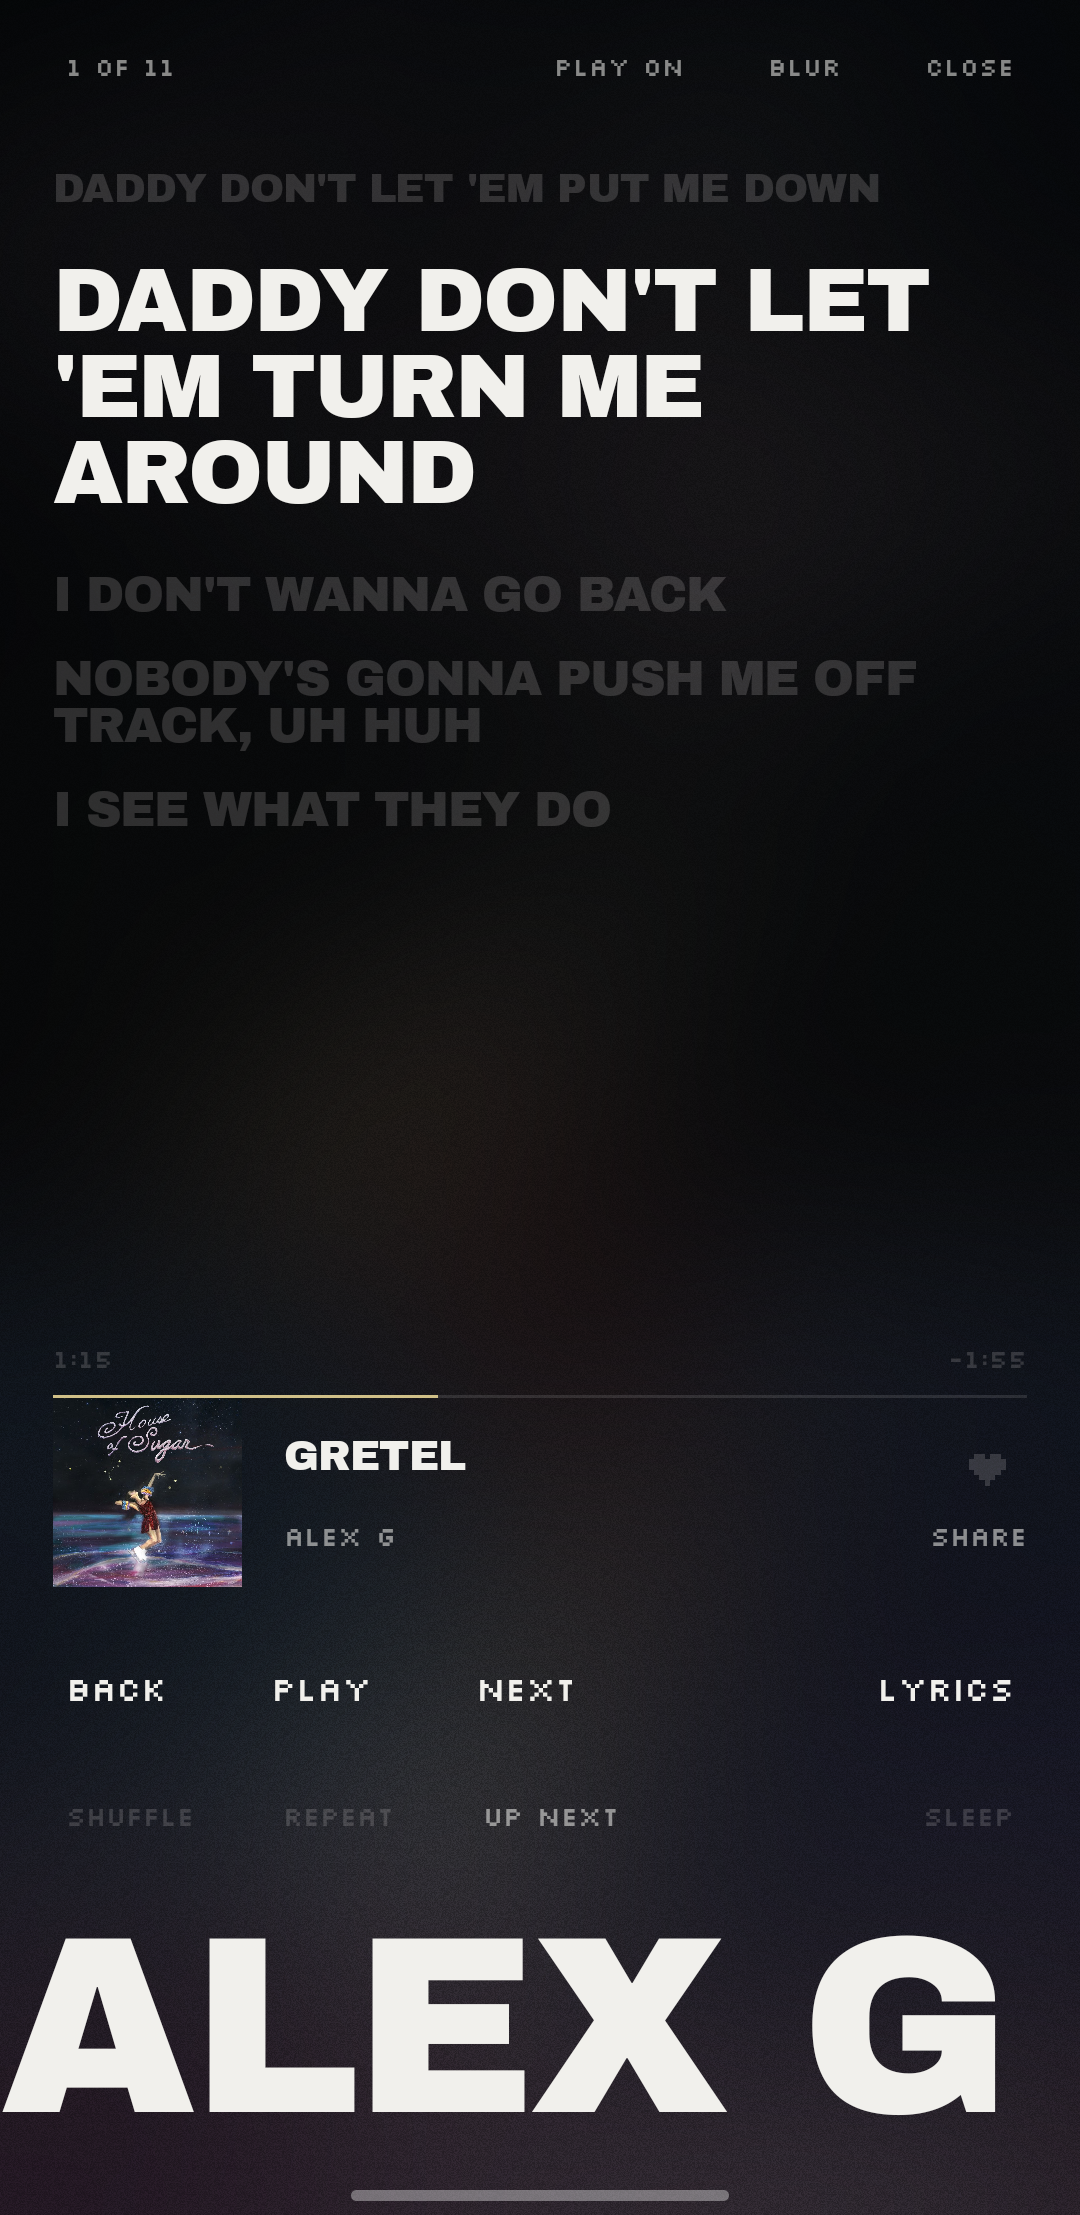
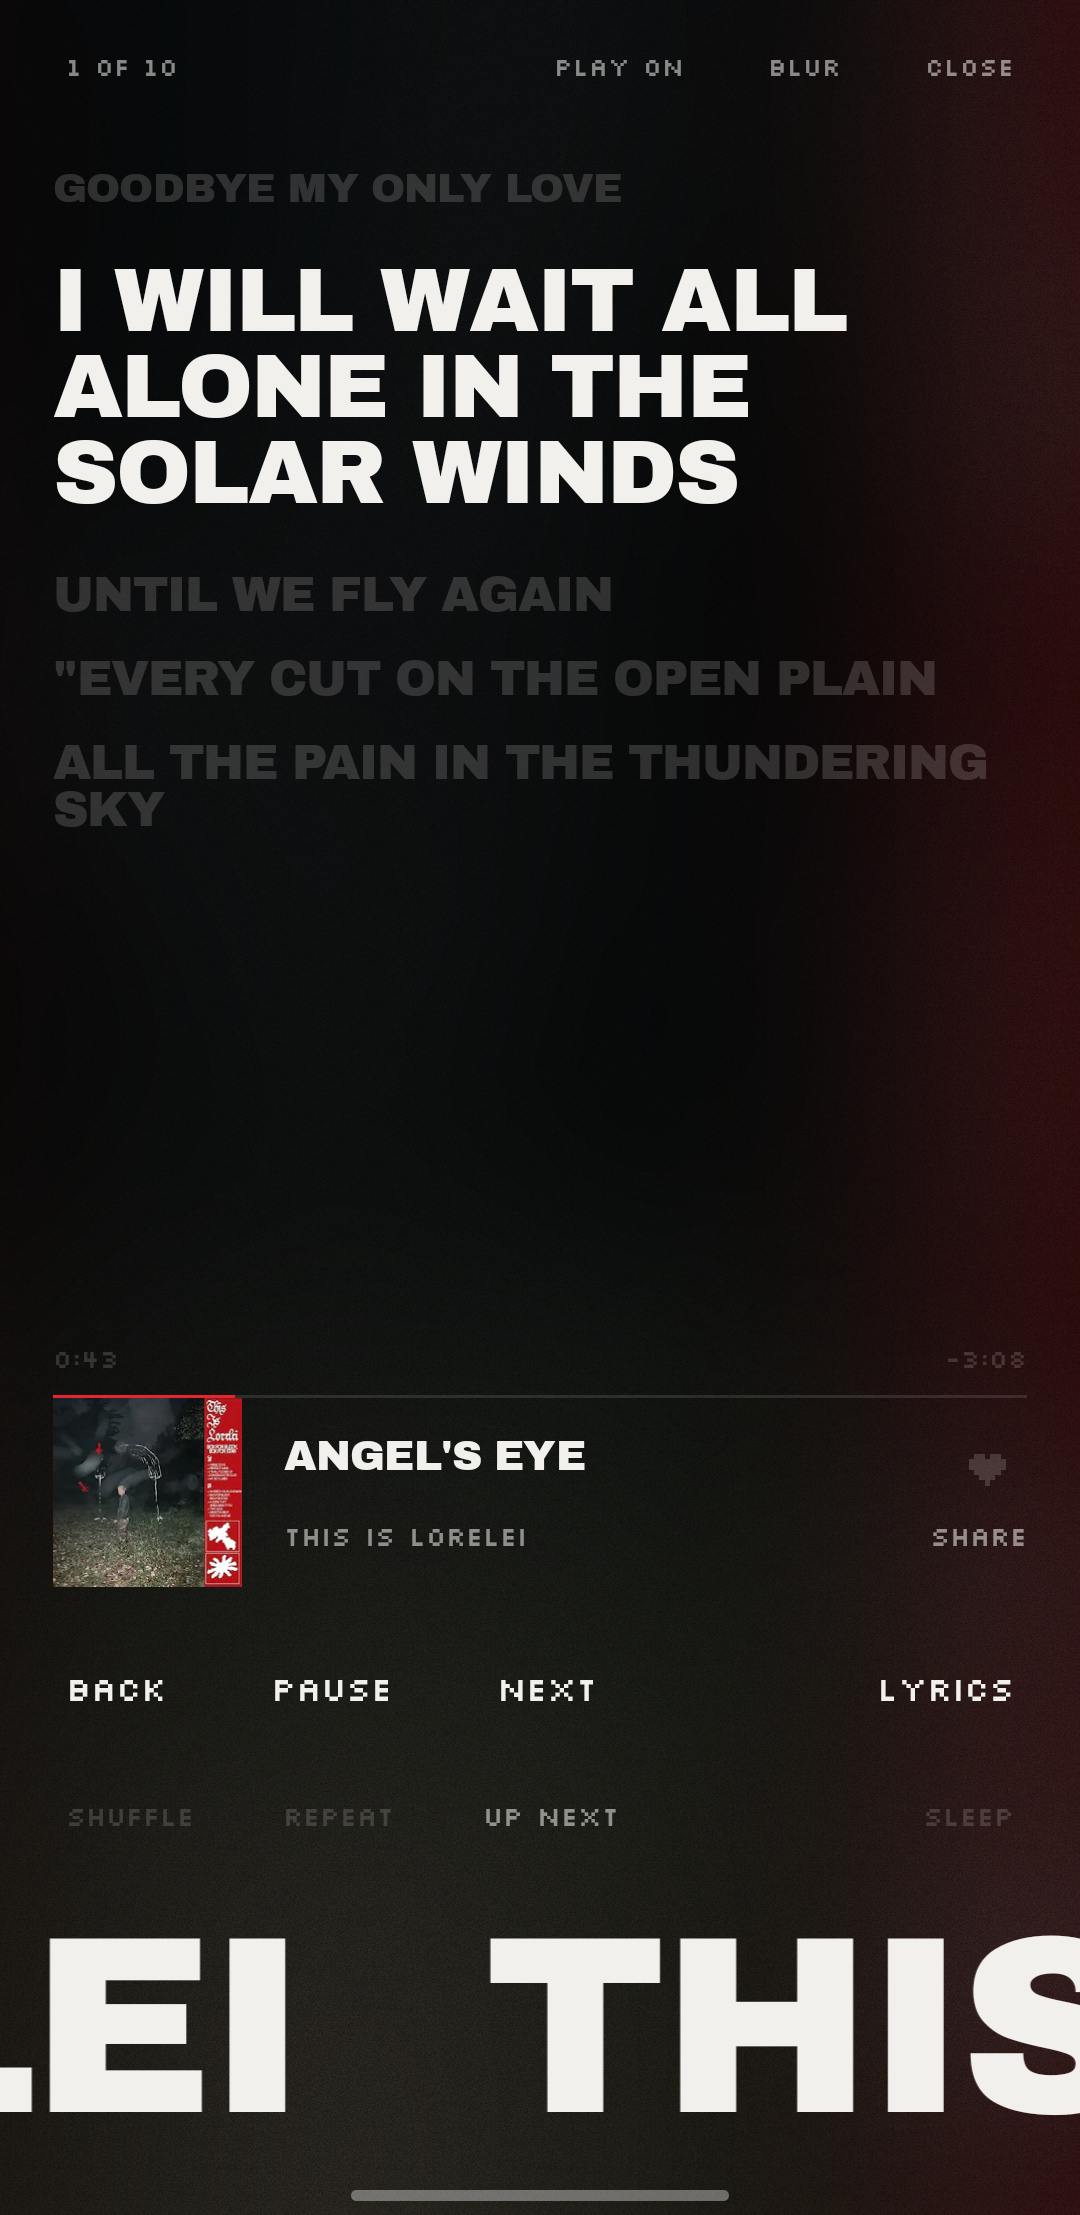
New screenshots: listen, the player in dither, ink radio, lyrics, a record, your artists, find, play on; ink radio's sleeve moving in the README

diff --git a/README.md b/README.md
@@ -23,12 +23,16 @@
 </p>
 
 <p align="center">
-  <img src="fastlane/metadata/android/en-US/images/phoneScreenshots/1.png" width="16%" alt="The player" />
-  <img src="fastlane/metadata/android/en-US/images/phoneScreenshots/2.png" width="16%" alt="Records" />
-  <img src="fastlane/metadata/android/en-US/images/phoneScreenshots/3.png" width="16%" alt="A record" />
-  <img src="fastlane/metadata/android/en-US/images/phoneScreenshots/4.png" width="16%" alt="Synced lyrics" />
-  <img src="fastlane/metadata/android/en-US/images/phoneScreenshots/5.png" width="16%" alt="The dither look" />
-  <img src="fastlane/metadata/android/en-US/images/phoneScreenshots/6.png" width="16%" alt="Find" />
+  <img src="fastlane/metadata/android/en-US/images/phoneScreenshots/1.png" width="24%" alt="Listen: mixes from your artists, ink radio, the week on indie radio" />
+  <img src="fastlane/metadata/android/en-US/images/phoneScreenshots/2.png" width="24%" alt="The player in the dither look" />
+  <img src="fastlane/metadata/android/en-US/images/phoneScreenshots/3.png" width="24%" alt="ink radio: WFMU saying what it plays" />
+  <img src="fastlane/metadata/android/en-US/images/phoneScreenshots/4.png" width="24%" alt="Synced lyrics" />
+</p>
+<p align="center">
+  <img src="fastlane/metadata/android/en-US/images/phoneScreenshots/5.png" width="24%" alt="A record" />
+  <img src="fastlane/metadata/android/en-US/images/phoneScreenshots/6.png" width="24%" alt="Pick a few artists you love" />
+  <img src="fastlane/metadata/android/en-US/images/phoneScreenshots/7.png" width="24%" alt="Find: your server and YouTube Music" />
+  <img src="fastlane/metadata/android/en-US/images/phoneScreenshots/8.png" width="24%" alt="Play on speakers, TVs, groups and receivers" />
 </p>
 
 ---
@@ -40,7 +44,23 @@
 | **The phone's files** | Everything in its music folder, filed by record and artist, with the covers your files carry. |
 | **Your own server** | Navidrome or any Subsonic server: your whole library streamed from home. Loves are the server's stars and playlists are its playlists, so every app you use agrees. |
 | **YouTube Music** | Search songs and records and play them, through [NewPipe Extractor](https://github.com/TeamNewPipe/NewPipeExtractor). No account. `full` build only. |
-| **ink radio** | Independent, listener-powered stations chosen by hand (KEXP, NTS, dublab, WFMU, FIP, Radio alHara and more), each saying what it's playing. Thousands more by genre from [radio-browser.info](https://www.radio-browser.info). |
+| **ink radio** | Independent, listener-powered stations chosen by hand, each saying what it's playing ([below](#ink-radio)). |
+
+## ink radio
+
+<img src=".github/radio.gif" width="240" align="right" alt="WFMU playing, its name sending out rings in 1-bit dither" />
+
+Fifty-seven independent, listener-powered and community stations, chosen by hand: KEXP in
+Seattle, NTS in London, dublab in Los Angeles, WFMU in Jersey City, Radio alHara in Bethlehem,
+and on round the world.
+
+Each says what it's playing, from its stream or its own playlist, on the player, the lock screen,
+the widget and the car. Where a station gives the record's cover, you see it; where it doesn't,
+its name sends out rings in 1-bit dither, moving while it plays.
+
+Thousands more by genre from [radio-browser.info](https://www.radio-browser.info).
+
+<br clear="right" />
 
 ## Something to play the moment it opens
 
